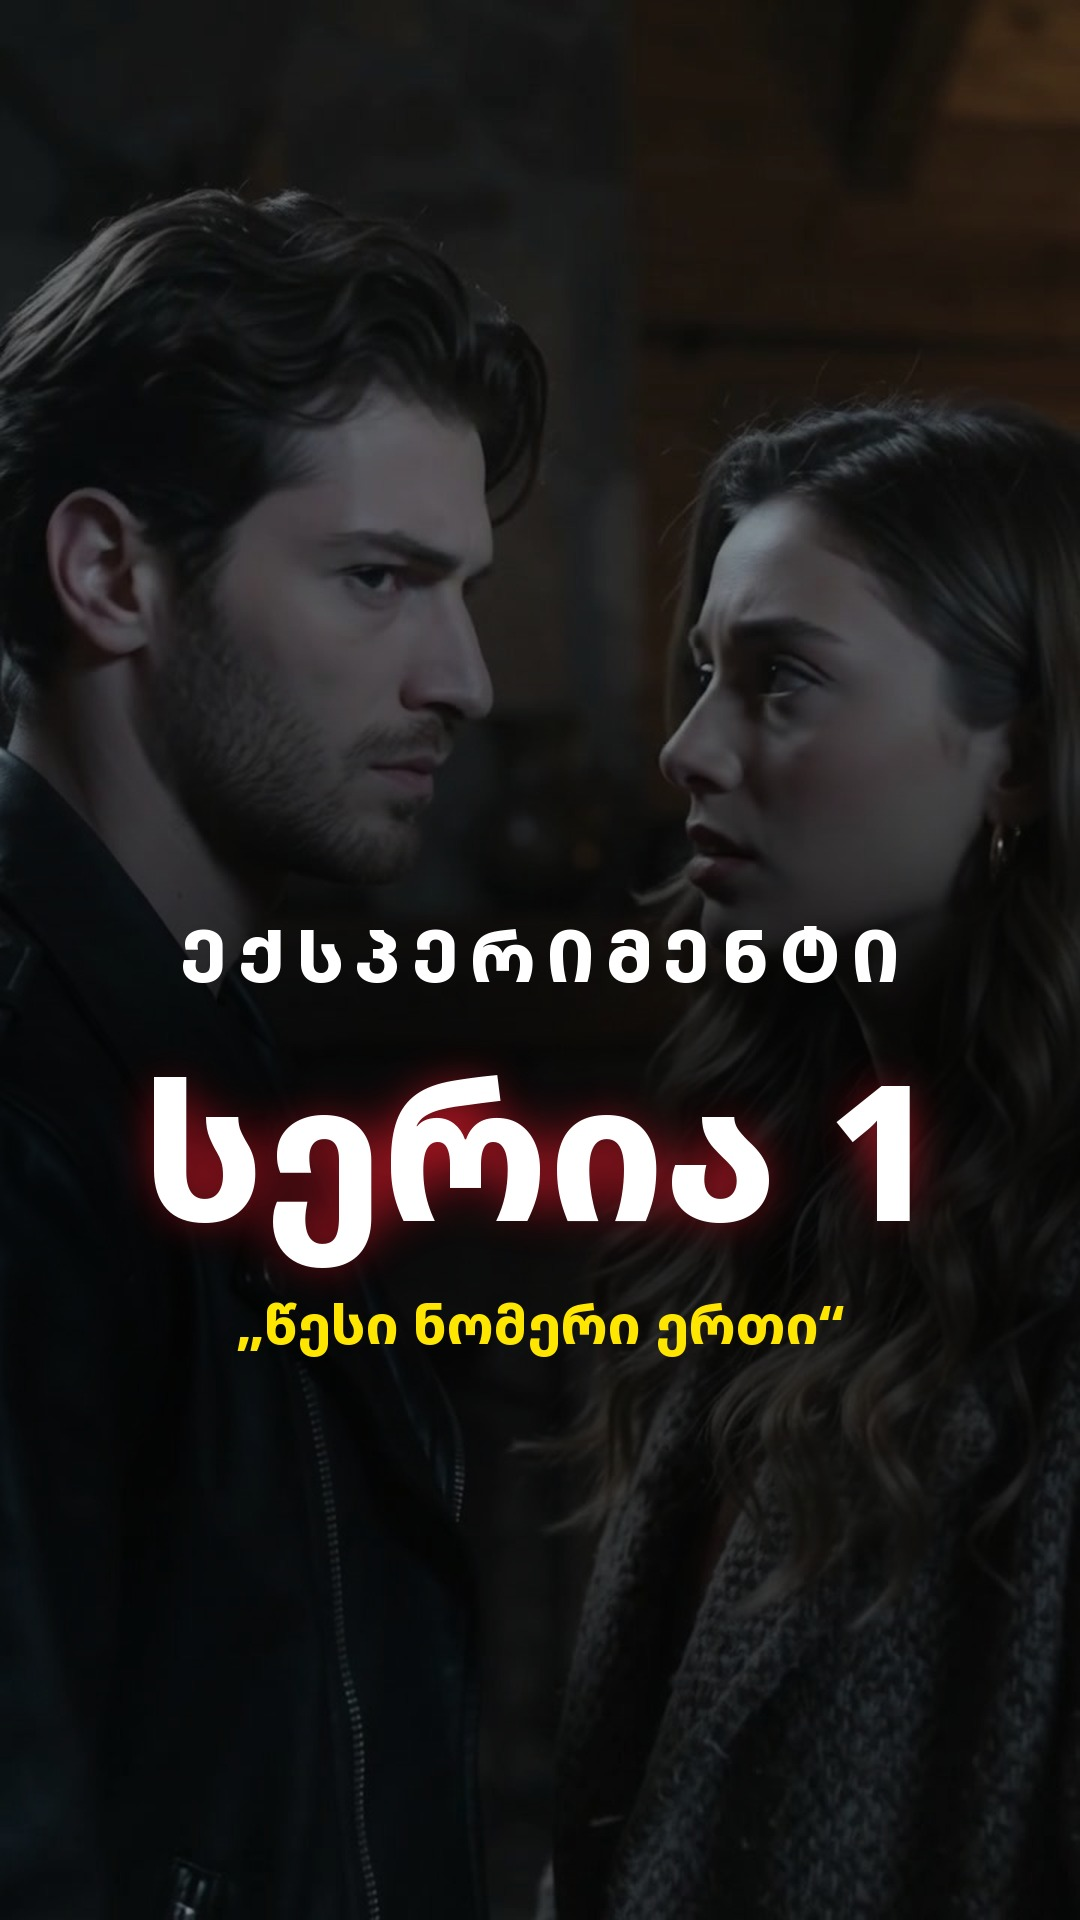
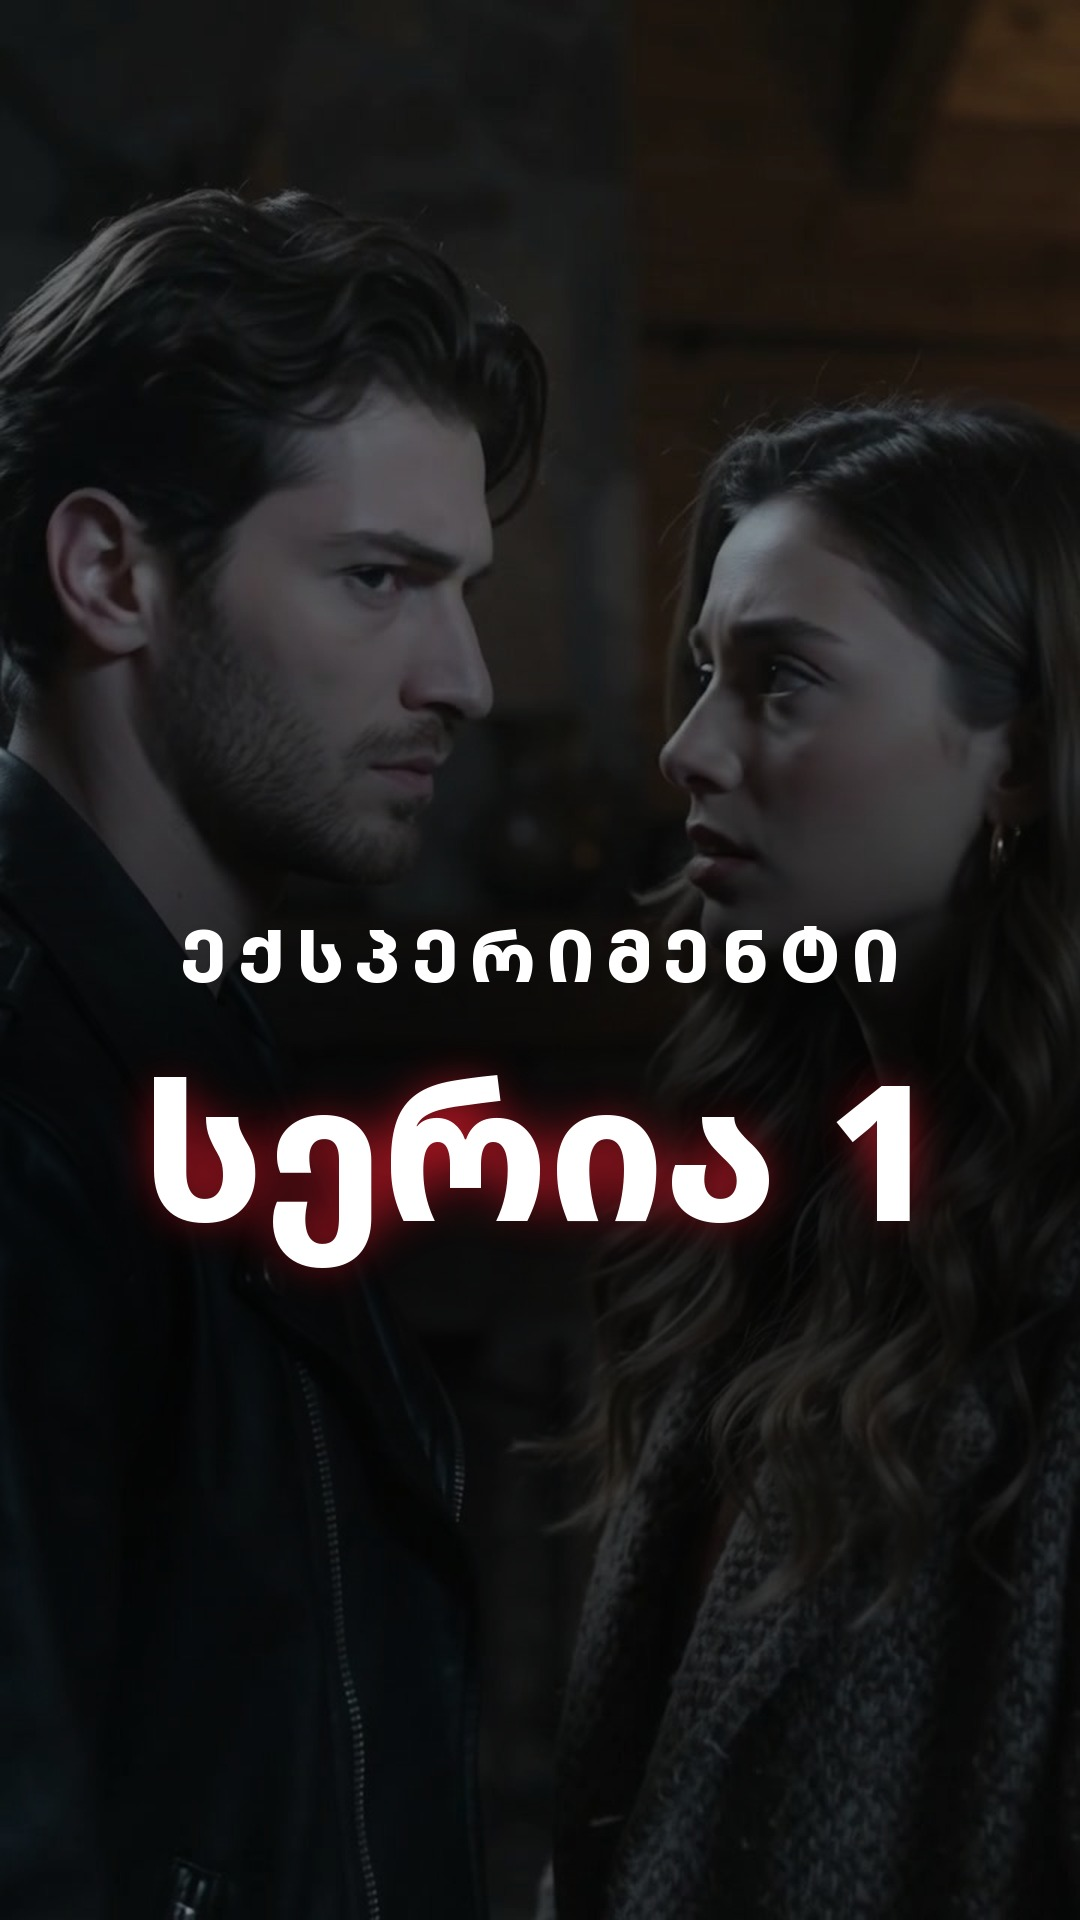
Same cover for every episode of a series, only the number changes
Claude-Session: https://claude.ai/code/session_01AoXhpEXGJ8e2Fu2o5XhjJv

Changed region(s): [[0.2139, 0.6562, 0.7639, 0.7188], [0.7639, 0.6562, 0.7944, 0.6875]]

diff --git a/tiktok/series.py b/tiktok/series.py
@@ -165,12 +165,13 @@ def make_cover(season, ep, clip_files, out):
     Text sits in the middle band so it also reads in TikTok's 3:4 profile grid crop."""
     from PIL import Image, ImageDraw, ImageFilter, ImageFont
     W, H = 1080, 1920
-    cov = ep.get("cover", {})
-    ci = min(cov.get("clip", len(clip_files) - 1), len(clip_files) - 1)
-    src = clip_files[ci]
-    at = cov.get("at", g.duration(src) * 0.8)
-    frame = out.with_suffix(".frame.jpg")
-    g.run(["ffmpeg", "-y", "-loglevel", "error", "-ss", f"{at:.2f}", "-i", src, "-frames:v", "1", "-q:v", "2", frame])
+    # one fixed background per series (series/<id>_cover.jpg) so all episodes look the same;
+    # if it doesn't exist yet, take a frame from this episode and keep it for the next ones
+    frame = ROOT / f"series/{season['id']}_cover.jpg"
+    if not frame.exists():
+        src = clip_files[-1]
+        g.run(["ffmpeg", "-y", "-loglevel", "error", "-ss", f"{g.duration(src) * 0.8:.2f}", "-i", src,
+               "-frames:v", "1", "-q:v", "2", frame])
     img = Image.open(frame).convert("RGB")
     sc = max(W / img.width, H / img.height)
     img = img.resize((round(img.width * sc), round(img.height * sc)), Image.LANCZOS)
@@ -206,8 +207,6 @@ def make_cover(season, ep, clip_files, out):
 
     centered(season["title"].upper(), 74, int(H * 0.47), (255, 255, 255, 235), spacing=10)
     centered(f"სერია {ep['n']}", 190, int(H * 0.53), (255, 255, 255, 255), glow=(255, 30, 50, 255))
-    if ep.get("title"):
-        centered(f"„{ep['title']}“", 54, int(H * 0.67), (255, 230, 0, 255))
     img.convert("RGB").save(out, quality=92)
     return out
 
